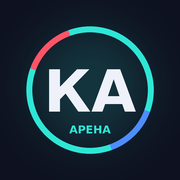
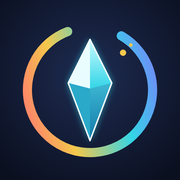
Установка как приложение (манифест, service worker, логотип); наглядная сетка плей-офф; кнопка «Следующая неделя» на панели недели; магазин в нижнем меню; приглашение игроков на действия; бонусы не больше 5; отдых снимает все эффекты
Claude-Session: https://claude.ai/code/session_01BdoBrB8cx4HivwSUnJtpct

Changed region(s): [[0.1111, 0.1389, 0.8889, 0.8889]]

diff --git a/sw.js b/sw.js
@@ -1,10 +1,10 @@
-// Офлайн-работа приложения: сначала пробуем сеть (чтобы получать обновления), без сети — берём сохранённую копию.
-const CACHE = 'kiber-arena-v1';
-const FILES = ['./', './index.html', './manifest.webmanifest', './icon-192.png', './icon-512.png', './icon-180.png'];
+// Установка как приложения и офлайн: сначала сеть (чтобы приходили обновления), без сети — сохранённая копия.
+const CACHE = 'spektr-v1';
+const FILES = ['./', './index.html', './manifest.webmanifest', './icon-192.png', './icon-512.png', './icon-mask.png', './icon-180.png'];
 self.addEventListener('install', e => { e.waitUntil(caches.open(CACHE).then(c => c.addAll(FILES))); self.skipWaiting(); });
 self.addEventListener('activate', e => { e.waitUntil(caches.keys().then(ks => Promise.all(ks.filter(k => k !== CACHE).map(k => caches.delete(k))))); self.clients.claim(); });
 self.addEventListener('fetch', e => {
   if (e.request.method !== 'GET' || new URL(e.request.url).origin !== location.origin) return;
-  e.respondWith(fetch(e.request).then(r => { const copy = r.clone(); caches.open(CACHE).then(c => c.put(e.request, copy)); return r; })
+  e.respondWith(fetch(e.request).then(r => { if (r.ok) { const copy = r.clone(); caches.open(CACHE).then(c => c.put(e.request, copy)); } return r; })
     .catch(() => caches.match(e.request).then(r => r || caches.match('./index.html'))));
 });
